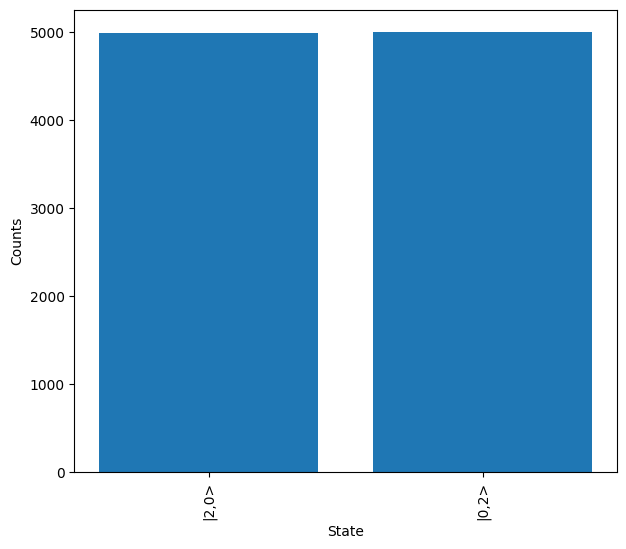
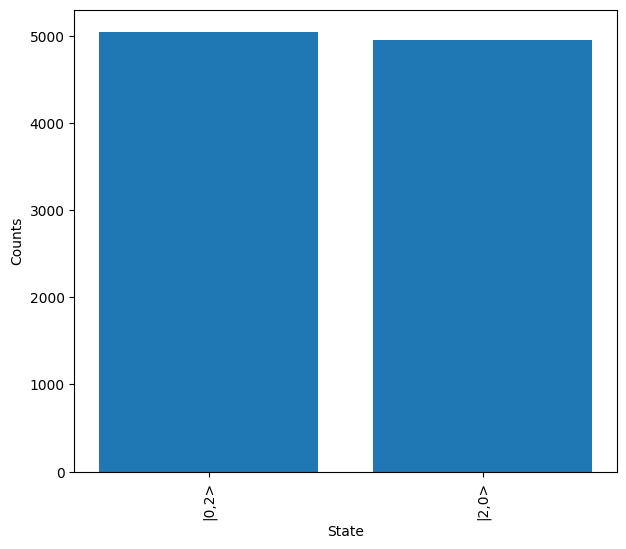
Updated any instances where the random state change altered documentation results - Updated some old code which was used in the Sampler section.

diff --git a/docs/source/emulator/sampler.rst b/docs/source/emulator/sampler.rst
@@ -29,7 +29,7 @@ Note that this CNOT gate requires a set of post-selection criteria to function c
 
     cnot_circuit.display(mode_labels = ["a0", "c0", "c1", "t0", "t1", "a1"])
 
-.. image:: assets/cnot_circuit.svg
+.. image:: assets/cnot_circuit_no_heralds.svg
     :scale: 100%
     :align: center
 
@@ -54,7 +54,7 @@ It is possible to view the output probability distribution by accessing the ``pr
     
     results = sampler.sample_N_outputs(10000, seed = 1)
 
-This method also supports supplying a random seed for the creation of repeatable results. It returns a :doc:`../emulator_reference/sampling_result` object, which has a range of useful functionality, but primarily the ``plot`` method can be used to view the output counts from the sampling experiment. ``show = True`` is passed to directly display the created plot.
+This method also supports supplying a random seed for the creation of repeatable results. It returns a :doc:`../emulator_reference/sampling_result` object, which has a range of useful functionality, but primarily the ``plot`` method can be used to view the output counts from the sampling experiment.
 
 .. code-block:: Python
 
@@ -76,19 +76,19 @@ The other sample methods are ``sample``, which is used to generate single output
 Post-selection & Heralding
 ^^^^^^^^^^^^^^^^^^^^^^^^^^
 
-As mentioned, post-selection/heralding is required for the CNOT gate above to work correctly. In particular, the gate requires that no photons are measured on the a0 & a1 modes. Additionally, there is a condition that only one photon is measured across c0 & c1 and another across t0 & t1. These can be implemented in the ``sample_N_outputs`` method by providing a function to the ``herald`` option. This can either be a dedicated function or can use the lambda function included with Python, but must take a single argument as the input, with this argument expected to be a State object. There is also a ``min_detection`` option, which is used to set the minimum number of photons that should be detected at the output. In this case the function we supply will enforce this condition and so it is not necessary. 
+As mentioned, post-selection/heralding is required for the CNOT gate above to work correctly. In particular, the gate requires that no photons are measured on the a0 & a1 modes. Additionally, there is a condition that only one photon is measured across c0 & c1 and another across t0 & t1. These can be implemented in the ``sample_N_outputs`` method by providing a function to the ``post_select`` option. This can either be a dedicated function or can use the lambda function included with Python, but must take a single argument as the input, with this argument expected to be a State object. There is also a ``min_detection`` option, which is used to set the minimum number of photons that should be detected at the output. In this case the function we supply will enforce this condition and so it is not necessary. 
 
 .. code-block:: Python
 
-    # Define heralding function
-    def herald(s):
+    # Define post-selection function
+    def post_select(s):
         return not s[0] and not s[5] and sum(s[1:3]) == 1 and sum(s[3:5]) == 1
 
     # Also define as equivalent lambda function
-    herald = lambda s: not s[0] and not s[5] and sum(s[1:3]) == 1 and sum(s[3:5]) == 1
+    post_select = lambda s: not s[0] and not s[5] and sum(s[1:3]) == 1 and sum(s[3:5]) == 1
 
     # Sample from the system again
-    results = sampler.sample_N_inputs(10000, herald = herald, seed = 1,
+    results = sampler.sample_N_inputs(10000, post_select = post_select, seed = 1,
                                       min_detection = 2) # Not needed
 
     # View results

diff --git a/docs/source/getting_started.rst b/docs/source/getting_started.rst
@@ -80,7 +80,7 @@ This produces a :doc:`emulator_reference/sampling_result` object, we can quickly
 .. code-block:: Python
 
     print(results)
-    # Output: {State(|2,0>): 4990, State(|0,2>): 5010}
+    # Output: {lightworks.State(|0,2>): 5047, lightworks.State(|2,0>): 4953}
 
 Alternatively, we can use the ``plot`` method to quickly create a plot of the measured output states.
 

diff --git a/docs/source/emulator/quick_sampler.rst b/docs/source/emulator/quick_sampler.rst
@@ -37,7 +37,7 @@ The probability distribution can then be sampled from, using either ``sample`` t
 .. code-block:: Python
 
     # Get 20 samples from system
-    results = quick_sampler.sample_N_outputs(20, seed = 61)
+    results = quick_sampler.sample_N_outputs(20, seed = 10)
     # Plot output from function
     results.plot()
 
